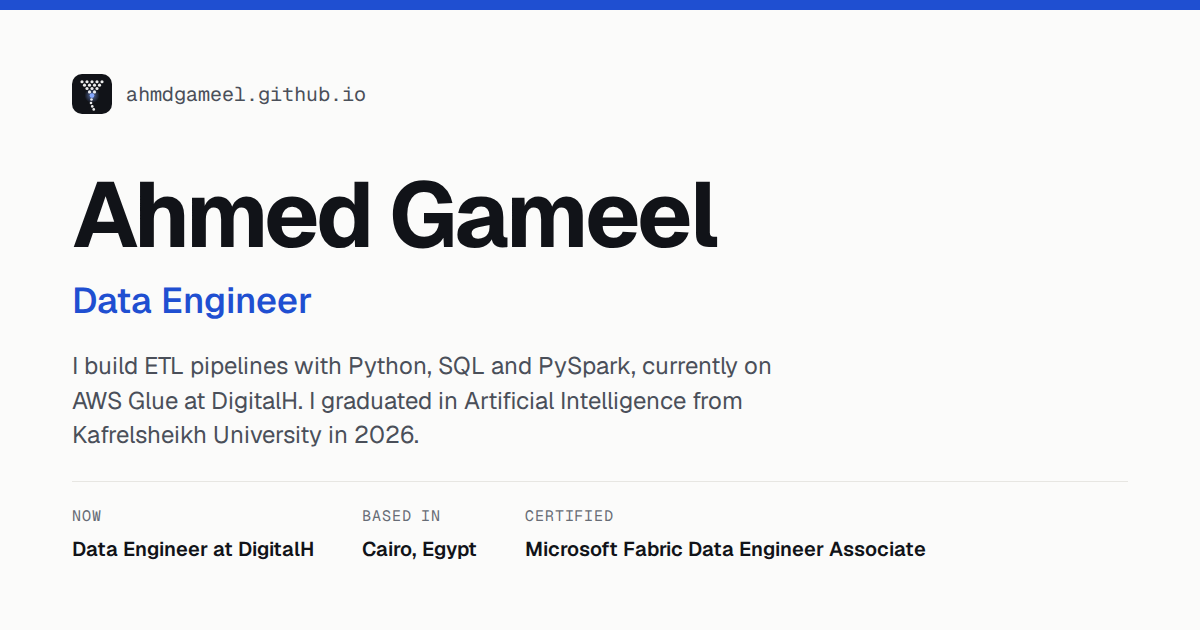
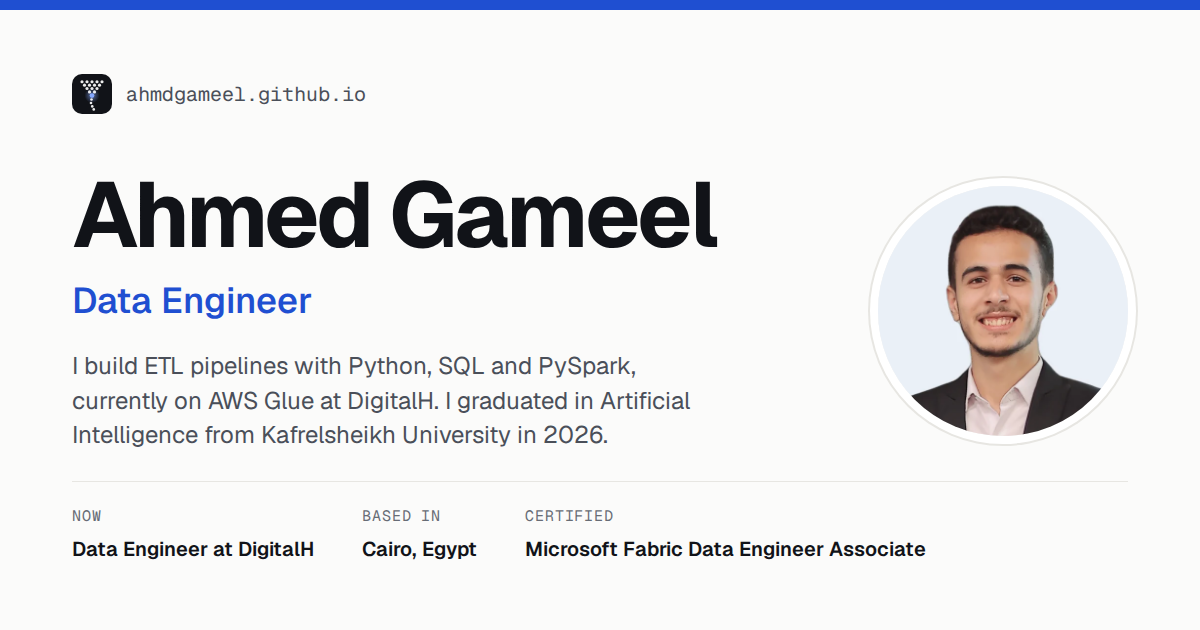
Add photo, WhatsApp contact and availability wording
- Portrait in a round frame at the top of the sidebar, in the mobile
  contact bar and on the share card; JSON-LD now points to it.
- WhatsApp buttons in the sidebar, mobile bar, contact section, case
  study top bar, command palette and the role fit check, which
  prefills the message with the role's requirements.
- Status reads "Open to the right Data Engineering role" and a new
  Work mode fact says remote, hybrid or on site, teams in Egypt or
  abroad. The About closing line no longer reads as job seeking.
- Sidebar fits short laptop screens: the nav shows only when there is
  room, and below 820px tall the pitch (repeated in About) is hidden.
- Mobile buttons: Email full width, WhatsApp and Resume side by side.
- Footer: restore the space before "See how this site is built".

Claude-Session: https://claude.ai/code/session_01CZejeLfx4kDzeNW5K77YNH

Changed region(s): [[0.0617, 0.573, 0.6475, 0.7238], [0.74, 0.3016, 0.925, 0.6937]]

diff --git a/src/lib/data.ts b/src/lib/data.ts
@@ -54,6 +54,16 @@ export interface Check { name: string; passed: boolean; detail: string; blocking
 export interface RunSummary { run_id: string; started_at: string; duration_ms: number; rows_total: number; checks_passed: number; checks_total: number; trigger: string; commit: string }
 
 export const person = warehouse.person[0];
+
+const waNumber = String(person.whatsapp).replace(/\D/g, '');
+/** WhatsApp chat link with an optional prefilled message, and the number written for people. */
+export const whatsapp = {
+  display: waNumber.startsWith('20') && waNumber.length === 12
+    ? `+20 ${waNumber.slice(2, 5)} ${waNumber.slice(5, 8)} ${waNumber.slice(8)}`
+    : `+${waNumber}`,
+  url: (text = `Hi ${person.name.split(' ')[0]}, I found your portfolio and would like to talk about a Data Engineering role.`) =>
+    `https://wa.me/${waNumber}?text=${encodeURIComponent(text)}`,
+};
 export const experience = warehouse.experience as Experience[];
 export const projects = warehouse.projects as unknown as Project[];
 export const skills = warehouse.skills as Skill[];
